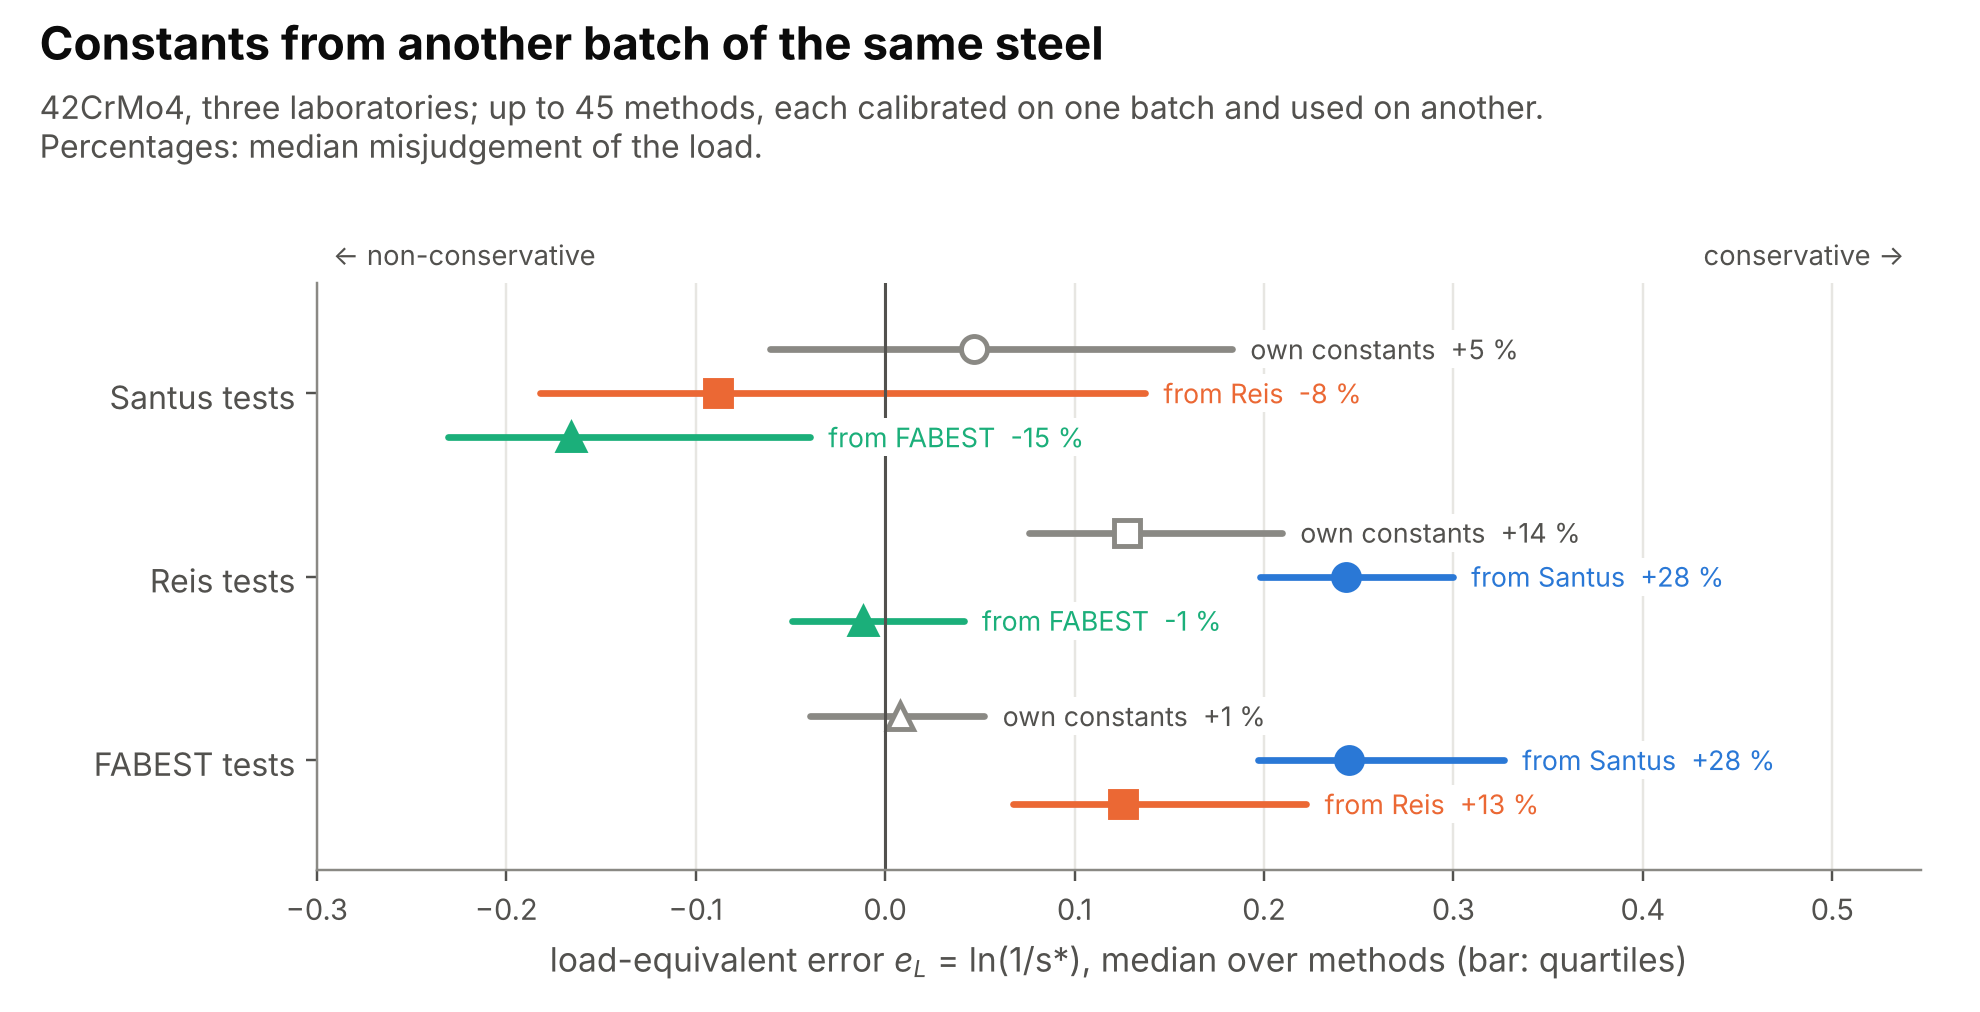
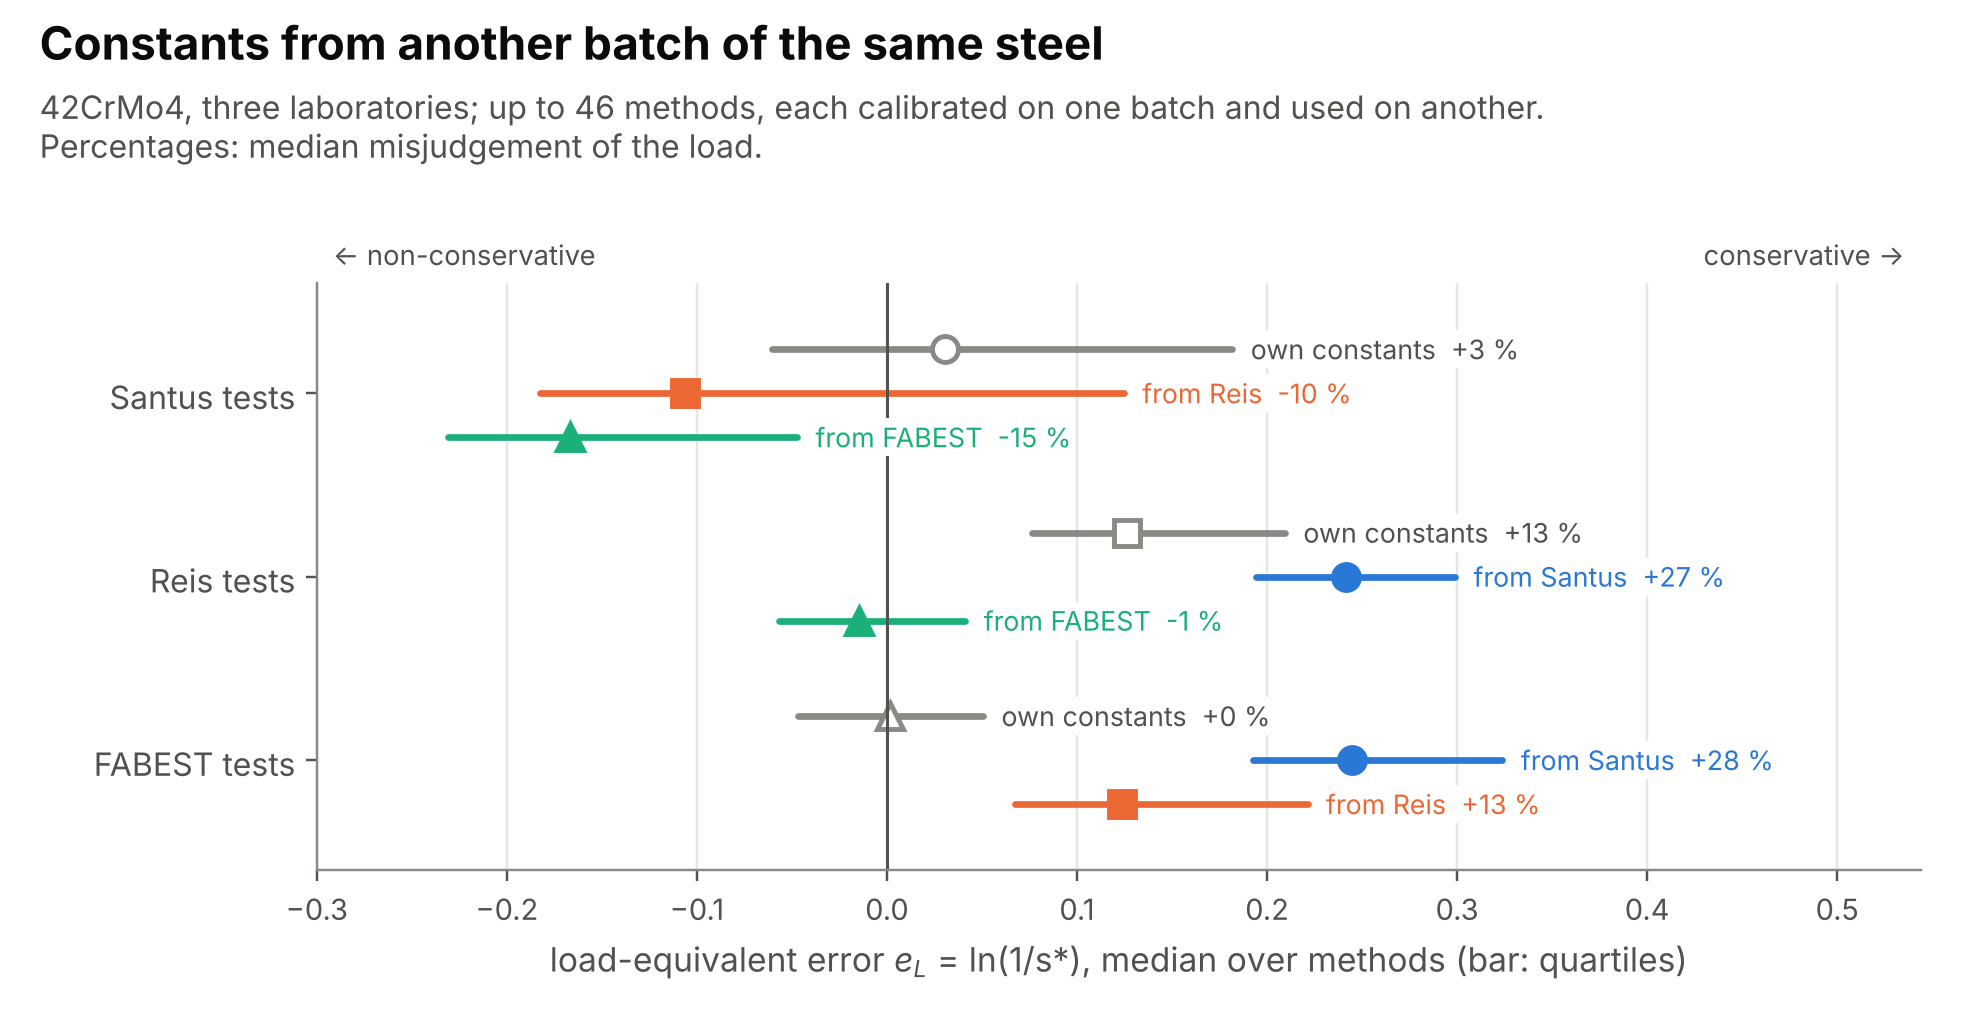
Merge main (#107) into WANG2018; refresh the cross-batch README numbers
With WANG2018 in the batch data the Santus-designed transfers give
+27 % and +28 % and Reis to Santus -10 %; the README quotes them and the
test no longer pins a single shared value. Figure redrawn.

Claude-Session: https://claude.ai/code/session_01KzHgFiC4WA789boM7p2Bhj

diff --git a/tests/test_gallery_figures.py b/tests/test_gallery_figures.py
@@ -98,8 +98,8 @@ def test_readme_batch_transfer_numbers_follow_the_data():
     def pct(design, target):
         return round(100 * (np.exp(s[(f"42CrMo4_{design}", f"42CrMo4_{target}")]) - 1))
 
-    assert pct("Santus", "Reis") == pct("Santus", "FABEST") == 28
-    assert "+28 %" in readme
+    lo, hi = sorted((pct("Santus", "Reis"), pct("Santus", "FABEST")))
+    assert (f"+{lo} %" if lo == hi else f"+{lo}–{hi} %") in readme
     assert f"−{-pct('Reis', 'Santus')} % from Reis" in readme
     assert f"−{-pct('FABEST', 'Santus')} % from FABEST" in readme
     assert f"(−{-pct('FABEST', 'Reis')} % and +{pct('Reis', 'FABEST')} %)" in readme

diff --git a/README.md b/README.md
@@ -143,9 +143,9 @@ the same 42CrMo4 +QT steel (Santus: Su = 875 MPa; Reis and FABEST: about 1100 MP
 was calibrated on one batch and used to predict the tests of another:
 
 - constants from the **weaker** batch (Santus) misjudge the load of the stronger batches by
-  **+28 %**, on the safe side;
+  **+27–28 %**, on the safe side;
 - constants from a **stronger** batch predict the Santus tests **non-conservatively**
-  (−8 % from Reis, −15 % from FABEST);
+  (−10 % from Reis, −15 % from FABEST);
 - the two high-strength batches transfer well into each other (−1 % and +13 %).
 
 Without tests on the batch, a margin of about 15–25 % on the load is needed. The same analysis
